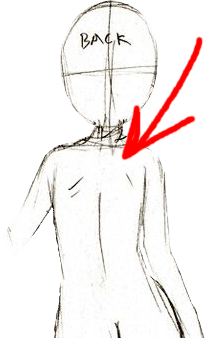
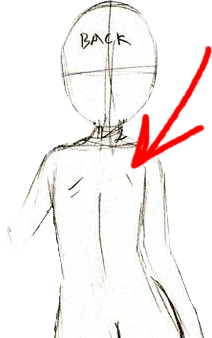
Extra Arm

diff --git a/guidejp.html b/guidejp.html
@@ -50,7 +50,7 @@
 					<div>
 						<h2>エクストラアーム</h2><br>
 						<hr class="girlhowdy">
-						<p class="noindent">右肩甲骨の棘上窩のあたりで、背中の上部に余分な（骨格の）腕が移植されています。この腕は大人から採取されることもあり、他の腕と同じ大きさか、少し大きくて長いものがあります。
+						<p class="noindent">背中の上部、右肩甲骨のほぼ中央に、余分な腕（骨格）を移植している。この腕は大人のものであることもあり、他の腕と同じ大きさか、少し大きく長いものとなっている。
 						<div align="center">
 							<a href="img/guide/extraarm.png" target="_blank"><img class="grid_img" src="img/guide/extraarm.png" style="padding-top:10px;"></a><br>
 							<a href="img/guide/extraarm2.png" target="_blank"><img class="grid_img" src="img/guide/extraarm2.png" style="padding-top:10px;"></a>

diff --git a/guide.html b/guide.html
@@ -53,7 +53,7 @@
 					<div>
 						<h2>Extra Arm</h2><br>
 						<hr class="girlhowdy">
-						<p class="noindent">An extra (skeletal) arm has been grafted to her upper back at roughly the supraspinous fossa of her right scapula. This arm is sometimes taken from an adult, and as such, can be either the same size or a little larger and longer than her other arms.
+						<p class="noindent">An extra (skeletal) arm has been grafted to her upper back at roughly the middle of her right scapula. This arm is sometimes taken from an adult, and as such, can be either the same size or a little larger and longer than her other arms.
 						<div align="center">
 							<a href="img/guide/extraarm.png" target="_blank"><img class="grid_img" src="img/guide/extraarm.png" style="padding-top:10px;"></a><br>
 							<a href="img/guide/extraarm2.png" target="_blank"><img class="grid_img" src="img/guide/extraarm2.png" style="padding-top:10px;"></a>
